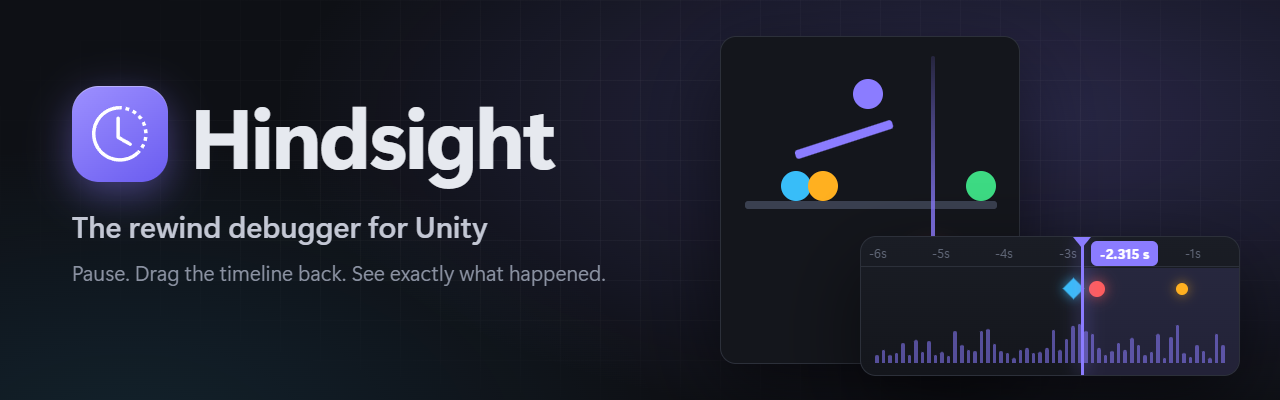
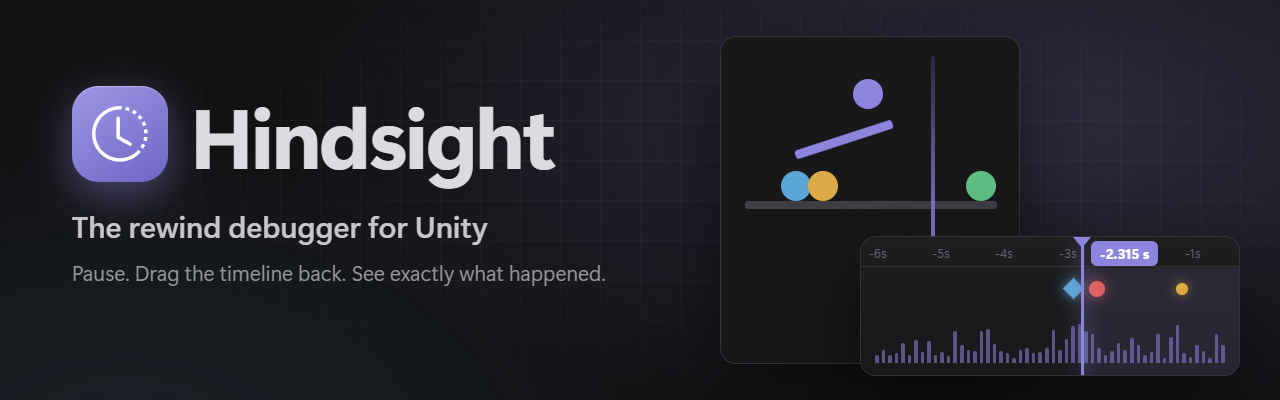
Hindsight 1.1.0: Find when, save and open recordings, Resume here, lifecycle markers, half the memory

diff --git a/docs/brand/social-preview.html b/docs/brand/social-preview.html
@@ -1,42 +1,42 @@
 <!doctype html>
 <!-- Source of docs/images/social-preview.png (1280x640, GitHub social preview). Render with Tools/Render-Brand.ps1. -->
 <html><head><meta charset="utf-8"><title>Hindsight social preview</title><style>
-:root { --bg:#0e1015; --border:#2c303a; --text:#e6e9ef; --dim:#8b92a2; --accent:#8b7cff; --error:#ff5c5c; --bookmark:#38bdf8; }
+:root { --bg:#121214; --border:#323237; --text:#dcdce0; --dim:#94949c; --accent:#8e84de; --error:#e26060; --bookmark:#5ca6d6; }
 * { box-sizing:border-box; margin:0; padding:0; }
 html, body { width:100%; height:100%; }
 body { font-family:'Inter','Segoe UI Variable Display','Segoe UI',system-ui,sans-serif; color:var(--text); overflow:hidden;
-  background: radial-gradient(1200px 520px at 78% 30%, rgba(139,124,255,.22), transparent 60%),
-              radial-gradient(900px 500px at 10% 110%, rgba(56,189,248,.10), transparent 60%), var(--bg); }
+  background: radial-gradient(1200px 520px at 78% 30%, rgba(142,132,222,.22), transparent 60%),
+              radial-gradient(900px 500px at 10% 110%, rgba(92,166,214,.10), transparent 60%), var(--bg); }
 .grid { position:absolute; inset:0; background-image: linear-gradient(rgba(255,255,255,.035) 1px, transparent 1px),
   linear-gradient(90deg, rgba(255,255,255,.035) 1px, transparent 1px); background-size: 40px 40px;
   -webkit-mask-image: radial-gradient(ellipse at 60% 40%, #000 30%, transparent 75%); }
 .logo { display:flex; align-items:center; gap:22px; }
 .mark { width:var(--mark); height:var(--mark); border-radius:calc(var(--mark) * .28); display:grid; place-items:center;
-  background: linear-gradient(145deg, #9d90ff, #6a5cf0); box-shadow: 0 12px 40px rgba(139,124,255,.45), inset 0 1px 0 rgba(255,255,255,.35); }
+  background: linear-gradient(145deg, #a097e6, #6f64c4); box-shadow: 0 12px 40px rgba(142,132,222,.45), inset 0 1px 0 rgba(255,255,255,.35); }
 .mark svg { width:58%; height:58%; fill:#fff; }
 h1 { font-size:var(--title); font-weight:800; letter-spacing:-.03em; line-height:1; }
-.tag { color:#c3c7d4; font-weight:600; }
+.tag { color:#c6c6cc; font-weight:600; }
 .sub { color:var(--dim); }
 .chips { display:flex; gap:12px; flex-wrap:wrap; }
-.chip { padding:9px 16px; border-radius:999px; background:rgba(255,255,255,.05); border:1px solid var(--border); color:#cfd3de; font-weight:600; font-size:18px; }
+.chip { padding:9px 16px; border-radius:999px; background:rgba(255,255,255,.05); border:1px solid var(--border); color:#d0d0d6; font-weight:600; font-size:18px; }
 .chip b { color:var(--accent); }
-.tl { position:absolute; border-radius:16px; background:linear-gradient(180deg, #1a1d25, #14161c); border:1px solid var(--border);
+.tl { position:absolute; border-radius:16px; background:linear-gradient(180deg, #1e1e21, #18181a); border:1px solid var(--border);
   box-shadow: 0 30px 80px rgba(0,0,0,.55); overflow:hidden; }
 .tl .ruler { height:30px; border-bottom:1px solid var(--border); position:relative; }
-.tl .tick { position:absolute; top:7px; font-size:13px; color:#5f6676; }
+.tl .tick { position:absolute; top:7px; font-size:13px; color:#66666e; }
 .bars { position:absolute; left:14px; right:14px; bottom:12px; height:var(--bars); display:flex; align-items:flex-end; gap:3px; }
-.bars i { flex:1; background:rgba(139,124,255,.55); border-radius:2px 2px 0 0; }
-.playhead { position:absolute; top:0; bottom:0; width:3px; background:var(--accent); box-shadow:0 0 18px rgba(139,124,255,.9); }
+.bars i { flex:1; background:rgba(142,132,222,.55); border-radius:2px 2px 0 0; }
+.playhead { position:absolute; top:0; bottom:0; width:3px; background:var(--accent); box-shadow:0 0 18px rgba(142,132,222,.9); }
 .playhead::before { content:''; position:absolute; top:0; left:-8px; border:9px solid transparent; border-top:11px solid var(--accent); }
-.past { position:absolute; top:31px; bottom:0; right:0; background:rgba(139,124,255,.12); }
+.past { position:absolute; top:31px; bottom:0; right:0; background:rgba(142,132,222,.12); }
 .label { position:absolute; top:4px; padding:3px 9px; border-radius:6px; background:var(--accent); color:#fff; font-weight:700; font-size:14px; }
-.dot { position:absolute; width:16px; height:16px; border-radius:50%; background:var(--error); box-shadow:0 0 14px rgba(255,92,92,.8); }
-.dia { position:absolute; width:15px; height:15px; background:var(--bookmark); transform:rotate(45deg); box-shadow:0 0 12px rgba(56,189,248,.8); }
-.scene { position:absolute; border-radius:16px; background:#14161c; border:1px solid var(--border); overflow:hidden; box-shadow: 0 30px 80px rgba(0,0,0,.55); }
-.floor { position:absolute; height:8px; background:#3a4050; border-radius:3px; }
+.dot { position:absolute; width:16px; height:16px; border-radius:50%; background:var(--error); box-shadow:0 0 14px rgba(226,96,96,.8); }
+.dia { position:absolute; width:15px; height:15px; background:var(--bookmark); transform:rotate(45deg); box-shadow:0 0 12px rgba(92,166,214,.8); }
+.scene { position:absolute; border-radius:16px; background:#18181a; border:1px solid var(--border); overflow:hidden; box-shadow: 0 30px 80px rgba(0,0,0,.55); }
+.floor { position:absolute; height:8px; background:#3e3e44; border-radius:3px; }
 .ball { position:absolute; border-radius:50%; }
-.paddle { position:absolute; height:9px; border-radius:3px; background:#8b7cff; transform:rotate(-18deg); }
-.trail { position:absolute; width:4px; background:linear-gradient(180deg, rgba(139,124,255,.15), rgba(139,124,255,1)); border-radius:2px; }
+.paddle { position:absolute; height:9px; border-radius:3px; background:#8e84de; transform:rotate(-18deg); }
+.trail { position:absolute; width:4px; background:linear-gradient(180deg, rgba(142,132,222,.15), rgba(142,132,222,1)); border-radius:2px; }
 
 body { --mark:104px; --title:96px; }
 .left { position:absolute; left:80px; top:120px; width:640px; }
@@ -55,12 +55,12 @@ body { --mark:104px; --title:96px; }
   <div class="floor" style="left:33px; width:352px; top:165px"></div>
   <div class="trail" style="left:294px; top:19px; height:204px"></div>
   <div class="paddle" style="left:100px; top:99px; width:142px"></div>
-  <div class="ball" style="left:280px; top:217px; width:32px; height:32px; background:#ff5c5c;
-    box-shadow:0 0 0 4px rgba(255,255,255,.85), 0 0 24px rgba(255,92,92,.8)"></div>
-  <div class="ball" style="left:84px; top:135px; width:30px; height:30px; background:#38bdf8"></div>
-  <div class="ball" style="left:121px; top:135px; width:30px; height:30px; background:#ffb020"></div>
-  <div class="ball" style="left:184px; top:42px; width:30px; height:30px; background:#8b7cff"></div>
-  <div class="ball" style="left:344px; top:135px; width:30px; height:30px; background:#3ddc84"></div>
+  <div class="ball" style="left:280px; top:217px; width:32px; height:32px; background:#e26060;
+    box-shadow:0 0 0 4px rgba(255,255,255,.85), 0 0 24px rgba(226,96,96,.8)"></div>
+  <div class="ball" style="left:84px; top:135px; width:30px; height:30px; background:#5ca6d6"></div>
+  <div class="ball" style="left:121px; top:135px; width:30px; height:30px; background:#deaa48"></div>
+  <div class="ball" style="left:184px; top:42px; width:30px; height:30px; background:#8e84de"></div>
+  <div class="ball" style="left:344px; top:135px; width:30px; height:30px; background:#60be84"></div>
 </div>
 
 <div class="tl" style="left:750px; top:380px; width:470px; height:200px; --bars:92px">
@@ -69,7 +69,7 @@ body { --mark:104px; --title:96px; }
   <div class="bars"><i style="height:15%"></i><i style="height:23%"></i><i style="height:14%"></i><i style="height:17%"></i><i style="height:35%"></i><i style="height:14%"></i><i style="height:41%"></i><i style="height:20%"></i><i style="height:39%"></i><i style="height:15%"></i><i style="height:19%"></i><i style="height:13%"></i><i style="height:57%"></i><i style="height:33%"></i><i style="height:23%"></i><i style="height:22%"></i><i style="height:58%"></i><i style="height:60%"></i><i style="height:34%"></i><i style="height:22%"></i><i style="height:17%"></i><i style="height:9%"></i><i style="height:23%"></i><i style="height:27%"></i><i style="height:17%"></i><i style="height:19%"></i><i style="height:27%"></i><i style="height:59%"></i><i style="height:24%"></i><i style="height:43%"></i><i style="height:26%"></i><i style="height:30%"></i><i style="height:18%"></i><i style="height:11%"></i><i style="height:66%"></i><i style="height:55%"></i><i style="height:61%"></i><i style="height:76%"></i><i style="height:23%"></i><i style="height:44%"></i><i style="height:32%"></i><i style="height:15%"></i><i style="height:20%"></i><i style="height:52%"></i><i style="height:9%"></i><i style="height:47%"></i><i style="height:68%"></i><i style="height:17%"></i><i style="height:11%"></i><i style="height:32%"></i><i style="height:22%"></i><i style="height:9%"></i><i style="height:51%"></i><i style="height:32%"></i><i style="height:28%"></i><i style="height:36%"></i><i style="height:51%"></i><i style="height:18%"></i><i style="height:11%"></i><i style="height:46%"></i></div>
   <div class="dia" style="left:253px; top:44px"></div>
   <div class="dot" style="left:282px; top:44px"></div>
-  <div class="dot" style="left:390px; top:46px; width:12px; height:12px; background:#ffb020; box-shadow:0 0 12px rgba(255,176,32,.7)"></div>
+  <div class="dot" style="left:390px; top:46px; width:12px; height:12px; background:#deaa48; box-shadow:0 0 12px rgba(222,170,72,.7)"></div>
   <div class="playhead" style="left:272px"></div>
   <div class="label" style="left:282px">-2.315 s</div>
 </div>

diff --git a/docs/brand/banner.html b/docs/brand/banner.html
@@ -1,42 +1,42 @@
 <!doctype html>
 <!-- Source of docs/images/banner.png (1280x400). Render with Tools/Render-Brand.ps1. -->
 <html><head><meta charset="utf-8"><title>Hindsight banner</title><style>
-:root { --bg:#0e1015; --border:#2c303a; --text:#e6e9ef; --dim:#8b92a2; --accent:#8b7cff; --error:#ff5c5c; --bookmark:#38bdf8; }
+:root { --bg:#121214; --border:#323237; --text:#dcdce0; --dim:#94949c; --accent:#8e84de; --error:#e26060; --bookmark:#5ca6d6; }
 * { box-sizing:border-box; margin:0; padding:0; }
 html, body { width:100%; height:100%; }
 body { font-family:'Inter','Segoe UI Variable Display','Segoe UI',system-ui,sans-serif; color:var(--text); overflow:hidden;
-  background: radial-gradient(1200px 520px at 78% 30%, rgba(139,124,255,.22), transparent 60%),
-              radial-gradient(900px 500px at 10% 110%, rgba(56,189,248,.10), transparent 60%), var(--bg); }
+  background: radial-gradient(1200px 520px at 78% 30%, rgba(142,132,222,.22), transparent 60%),
+              radial-gradient(900px 500px at 10% 110%, rgba(92,166,214,.10), transparent 60%), var(--bg); }
 .grid { position:absolute; inset:0; background-image: linear-gradient(rgba(255,255,255,.035) 1px, transparent 1px),
   linear-gradient(90deg, rgba(255,255,255,.035) 1px, transparent 1px); background-size: 40px 40px;
   -webkit-mask-image: radial-gradient(ellipse at 60% 40%, #000 30%, transparent 75%); }
 .logo { display:flex; align-items:center; gap:22px; }
 .mark { width:var(--mark); height:var(--mark); border-radius:calc(var(--mark) * .28); display:grid; place-items:center;
-  background: linear-gradient(145deg, #9d90ff, #6a5cf0); box-shadow: 0 12px 40px rgba(139,124,255,.45), inset 0 1px 0 rgba(255,255,255,.35); }
+  background: linear-gradient(145deg, #a097e6, #6f64c4); box-shadow: 0 12px 40px rgba(142,132,222,.45), inset 0 1px 0 rgba(255,255,255,.35); }
 .mark svg { width:58%; height:58%; fill:#fff; }
 h1 { font-size:var(--title); font-weight:800; letter-spacing:-.03em; line-height:1; }
-.tag { color:#c3c7d4; font-weight:600; }
+.tag { color:#c6c6cc; font-weight:600; }
 .sub { color:var(--dim); }
 .chips { display:flex; gap:12px; flex-wrap:wrap; }
-.chip { padding:9px 16px; border-radius:999px; background:rgba(255,255,255,.05); border:1px solid var(--border); color:#cfd3de; font-weight:600; font-size:18px; }
+.chip { padding:9px 16px; border-radius:999px; background:rgba(255,255,255,.05); border:1px solid var(--border); color:#d0d0d6; font-weight:600; font-size:18px; }
 .chip b { color:var(--accent); }
-.tl { position:absolute; border-radius:16px; background:linear-gradient(180deg, #1a1d25, #14161c); border:1px solid var(--border);
+.tl { position:absolute; border-radius:16px; background:linear-gradient(180deg, #1e1e21, #18181a); border:1px solid var(--border);
   box-shadow: 0 30px 80px rgba(0,0,0,.55); overflow:hidden; }
 .tl .ruler { height:30px; border-bottom:1px solid var(--border); position:relative; }
-.tl .tick { position:absolute; top:7px; font-size:13px; color:#5f6676; }
+.tl .tick { position:absolute; top:7px; font-size:13px; color:#66666e; }
 .bars { position:absolute; left:14px; right:14px; bottom:12px; height:var(--bars); display:flex; align-items:flex-end; gap:3px; }
-.bars i { flex:1; background:rgba(139,124,255,.55); border-radius:2px 2px 0 0; }
-.playhead { position:absolute; top:0; bottom:0; width:3px; background:var(--accent); box-shadow:0 0 18px rgba(139,124,255,.9); }
+.bars i { flex:1; background:rgba(142,132,222,.55); border-radius:2px 2px 0 0; }
+.playhead { position:absolute; top:0; bottom:0; width:3px; background:var(--accent); box-shadow:0 0 18px rgba(142,132,222,.9); }
 .playhead::before { content:''; position:absolute; top:0; left:-8px; border:9px solid transparent; border-top:11px solid var(--accent); }
-.past { position:absolute; top:31px; bottom:0; right:0; background:rgba(139,124,255,.12); }
+.past { position:absolute; top:31px; bottom:0; right:0; background:rgba(142,132,222,.12); }
 .label { position:absolute; top:4px; padding:3px 9px; border-radius:6px; background:var(--accent); color:#fff; font-weight:700; font-size:14px; }
-.dot { position:absolute; width:16px; height:16px; border-radius:50%; background:var(--error); box-shadow:0 0 14px rgba(255,92,92,.8); }
-.dia { position:absolute; width:15px; height:15px; background:var(--bookmark); transform:rotate(45deg); box-shadow:0 0 12px rgba(56,189,248,.8); }
-.scene { position:absolute; border-radius:16px; background:#14161c; border:1px solid var(--border); overflow:hidden; box-shadow: 0 30px 80px rgba(0,0,0,.55); }
-.floor { position:absolute; height:8px; background:#3a4050; border-radius:3px; }
+.dot { position:absolute; width:16px; height:16px; border-radius:50%; background:var(--error); box-shadow:0 0 14px rgba(226,96,96,.8); }
+.dia { position:absolute; width:15px; height:15px; background:var(--bookmark); transform:rotate(45deg); box-shadow:0 0 12px rgba(92,166,214,.8); }
+.scene { position:absolute; border-radius:16px; background:#18181a; border:1px solid var(--border); overflow:hidden; box-shadow: 0 30px 80px rgba(0,0,0,.55); }
+.floor { position:absolute; height:8px; background:#3e3e44; border-radius:3px; }
 .ball { position:absolute; border-radius:50%; }
-.paddle { position:absolute; height:9px; border-radius:3px; background:#8b7cff; transform:rotate(-18deg); }
-.trail { position:absolute; width:4px; background:linear-gradient(180deg, rgba(139,124,255,.15), rgba(139,124,255,1)); border-radius:2px; }
+.paddle { position:absolute; height:9px; border-radius:3px; background:#8e84de; transform:rotate(-18deg); }
+.trail { position:absolute; width:4px; background:linear-gradient(180deg, rgba(142,132,222,.15), rgba(142,132,222,1)); border-radius:2px; }
 
 body { --mark:96px; --title:84px; }
 .left { position:absolute; left:72px; top:86px; width:600px; }
@@ -53,12 +53,12 @@ body { --mark:96px; --title:84px; }
   <div class="floor" style="left:24px; width:252px; top:164px"></div>
   <div class="trail" style="left:210px; top:19px; height:203px"></div>
   <div class="paddle" style="left:72px; top:98px; width:102px"></div>
-  <div class="ball" style="left:196px; top:216px; width:32px; height:32px; background:#ff5c5c;
-    box-shadow:0 0 0 4px rgba(255,255,255,.85), 0 0 24px rgba(255,92,92,.8)"></div>
-  <div class="ball" style="left:60px; top:134px; width:30px; height:30px; background:#38bdf8"></div>
-  <div class="ball" style="left:87px; top:134px; width:30px; height:30px; background:#ffb020"></div>
-  <div class="ball" style="left:132px; top:42px; width:30px; height:30px; background:#8b7cff"></div>
-  <div class="ball" style="left:245px; top:134px; width:30px; height:30px; background:#3ddc84"></div>
+  <div class="ball" style="left:196px; top:216px; width:32px; height:32px; background:#e26060;
+    box-shadow:0 0 0 4px rgba(255,255,255,.85), 0 0 24px rgba(226,96,96,.8)"></div>
+  <div class="ball" style="left:60px; top:134px; width:30px; height:30px; background:#5ca6d6"></div>
+  <div class="ball" style="left:87px; top:134px; width:30px; height:30px; background:#deaa48"></div>
+  <div class="ball" style="left:132px; top:42px; width:30px; height:30px; background:#8e84de"></div>
+  <div class="ball" style="left:245px; top:134px; width:30px; height:30px; background:#60be84"></div>
 </div>
 
 <div class="tl" style="left:860px; top:236px; width:380px; height:140px; --bars:56px">
@@ -67,7 +67,7 @@ body { --mark:96px; --title:84px; }
   <div class="bars"><i style="height:15%"></i><i style="height:23%"></i><i style="height:14%"></i><i style="height:17%"></i><i style="height:35%"></i><i style="height:14%"></i><i style="height:41%"></i><i style="height:20%"></i><i style="height:39%"></i><i style="height:15%"></i><i style="height:19%"></i><i style="height:13%"></i><i style="height:57%"></i><i style="height:33%"></i><i style="height:23%"></i><i style="height:22%"></i><i style="height:58%"></i><i style="height:60%"></i><i style="height:34%"></i><i style="height:22%"></i><i style="height:17%"></i><i style="height:9%"></i><i style="height:23%"></i><i style="height:27%"></i><i style="height:17%"></i><i style="height:19%"></i><i style="height:27%"></i><i style="height:59%"></i><i style="height:24%"></i><i style="height:43%"></i><i style="height:66%"></i><i style="height:70%"></i><i style="height:58%"></i><i style="height:51%"></i><i style="height:26%"></i><i style="height:15%"></i><i style="height:21%"></i><i style="height:36%"></i><i style="height:23%"></i><i style="height:44%"></i><i style="height:32%"></i><i style="height:15%"></i><i style="height:20%"></i><i style="height:52%"></i><i style="height:9%"></i><i style="height:47%"></i><i style="height:68%"></i><i style="height:17%"></i><i style="height:11%"></i><i style="height:32%"></i><i style="height:22%"></i><i style="height:9%"></i><i style="height:51%"></i><i style="height:32%"></i></div>
   <div class="dia" style="left:205px; top:44px"></div>
   <div class="dot" style="left:228px; top:44px"></div>
-  <div class="dot" style="left:315px; top:46px; width:12px; height:12px; background:#ffb020; box-shadow:0 0 12px rgba(255,176,32,.7)"></div>
+  <div class="dot" style="left:315px; top:46px; width:12px; height:12px; background:#deaa48; box-shadow:0 0 12px rgba(222,170,72,.7)"></div>
   <div class="playhead" style="left:220px"></div>
   <div class="label" style="left:230px">-2.315 s</div>
 </div>

diff --git a/Packages/com.nekuzaky.hindsight/CHANGELOG.md b/Packages/com.nekuzaky.hindsight/CHANGELOG.md
@@ -3,7 +3,7 @@
 All notable changes to this package are documented here. The format follows
 [Keep a Changelog](https://keepachangelog.com/en/1.1.0/) and the project uses [Semantic Versioning](https://semver.org/).
 
-## [Unreleased]
+## [1.1.0] - 2026-10-23
 
 ### Added
 
@@ -17,8 +17,8 @@ All notable changes to this package are documented here. The format follows
   Rigidbody and Rigidbody2D velocities are restored, and the recording forgets what came after. Also in
   **Tools > Hindsight** and as a shortcut you can bind.
 - **Lifecycle markers:** the timeline marks frames where objects appear or are destroyed ("3 objects appeared") and
-  where scenes load. They have their own filter chip, off at first so spawning games do not bury the errors, and can be turned off
-  in the preferences.
+  where scenes load. They have their own filter chip, off at first so spawning games do not bury the errors, and
+  can be turned off in the preferences.
 
 ### Changed
 
@@ -26,7 +26,9 @@ All notable changes to this package are documented here. The format follows
   same budget holds a longer history: 12 to 24 bytes per moving object and frame instead of 44. The benchmark scene
   with 1,000 moving objects went from 80.8 MB to 36.9 MB for 30 seconds. Checkpoints are also taken more often when
   frames come very fast, which keeps seeks short.
+- Softer colors (neutral greys, a muted violet) and visual polish: smaller corners, hover and keyboard focus states.
 - The package description says exactly what reaches a build: a 5 KB assembly whose calls are removed.
+- Code comments were removed from the sources.
 
 ## [1.0.2] - 2026-10-23
 

diff --git a/Packages/com.nekuzaky.hindsight/Documentation~/getting-started.md b/Packages/com.nekuzaky.hindsight/Documentation~/getting-started.md
@@ -16,13 +16,13 @@ https://github.com/Nekuzaky/Hindsight.git?path=Packages/com.nekuzaky.hindsight
 To stay on a given release, add its tag at the end:
 
 ```
-https://github.com/Nekuzaky/Hindsight.git?path=Packages/com.nekuzaky.hindsight#v1.0.2
+https://github.com/Nekuzaky/Hindsight.git?path=Packages/com.nekuzaky.hindsight#v1.1.0
 ```
 
 You can also add the line to `Packages/manifest.json` yourself:
 
 ```json
-"com.nekuzaky.hindsight": "https://github.com/Nekuzaky/Hindsight.git?path=Packages/com.nekuzaky.hindsight#v1.0.2"
+"com.nekuzaky.hindsight": "https://github.com/Nekuzaky/Hindsight.git?path=Packages/com.nekuzaky.hindsight#v1.1.0"
 ```
 
 ## Your first rewind, with the demo

diff --git a/README.md b/README.md
@@ -81,7 +81,7 @@ In Unity: **Window > Package Manager > + > Install package from git URL...** and
 https://github.com/Nekuzaky/Hindsight.git?path=Packages/com.nekuzaky.hindsight
 ```
 
-Pin a release by adding its tag, for example `...?path=Packages/com.nekuzaky.hindsight#v1.0.2`.
+Pin a release by adding its tag, for example `...?path=Packages/com.nekuzaky.hindsight#v1.1.0`.
 
 ## Quick start
 
